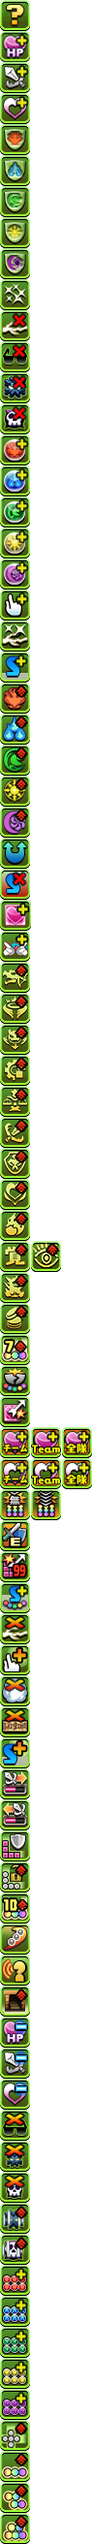
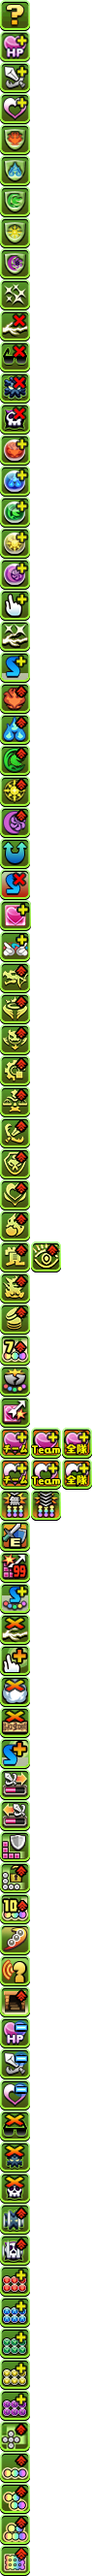
提前增加12珠觉醒

diff --git a/triple.html b/triple.html
@@ -539,6 +539,7 @@ var formation = new Formation(teamsCount,6);
 						<li class="awoken-count display-none"><span class="awoken-icon" data-awoken-icon="79"></span><span class="count"></span></li><!--3色-->
 						<li class="awoken-count display-none"><span class="awoken-icon" data-awoken-icon="80"></span><span class="count"></span></li><!--4色-->
 						<li class="awoken-count display-none"><span class="awoken-icon" data-awoken-icon="81"></span><span class="count"></span></li><!--5色-->
+						<li class="awoken-count display-none"><span class="awoken-icon" data-awoken-icon="82"></span><span class="count"></span></li><!--12珠-->
 					</ul>
 				</div>
 			</li>
@@ -1001,6 +1002,7 @@ var formation = new Formation(teamsCount,6);
 						<li class="awoken-count display-none"><span class="awoken-icon" data-awoken-icon="79"></span><span class="count"></span></li><!--3色-->
 						<li class="awoken-count display-none"><span class="awoken-icon" data-awoken-icon="80"></span><span class="count"></span></li><!--4色-->
 						<li class="awoken-count display-none"><span class="awoken-icon" data-awoken-icon="81"></span><span class="count"></span></li><!--5色-->
+						<li class="awoken-count display-none"><span class="awoken-icon" data-awoken-icon="82"></span><span class="count"></span></li><!--12珠-->
 					</ul>
 				</div>
 			</li>
@@ -1463,6 +1465,7 @@ var formation = new Formation(teamsCount,6);
 						<li class="awoken-count display-none"><span class="awoken-icon" data-awoken-icon="79"></span><span class="count"></span></li><!--3色-->
 						<li class="awoken-count display-none"><span class="awoken-icon" data-awoken-icon="80"></span><span class="count"></span></li><!--4色-->
 						<li class="awoken-count display-none"><span class="awoken-icon" data-awoken-icon="81"></span><span class="count"></span></li><!--5色-->
+						<li class="awoken-count display-none"><span class="awoken-icon" data-awoken-icon="82"></span><span class="count"></span></li><!--12珠-->
 					</ul>
 				</div>
 			</li>
@@ -1632,6 +1635,7 @@ var formation = new Formation(teamsCount,6);
 					<li class="awoken-count"><button class="awoken-icon" data-awoken-icon="79"></button><!--3色--></li>
 					<li class="awoken-count"><button class="awoken-icon" data-awoken-icon="80"></button><!--4色--></li>
 					<li class="awoken-count"><button class="awoken-icon" data-awoken-icon="81"></button><!--5色--></li>
+					<li class="awoken-count"><button class="awoken-icon" data-awoken-icon="82"></button><!--12珠--></li>
 				</ul>
 			</div>
 			<div class="sawoken-div"><!--超觉醒-->
@@ -1718,6 +1722,7 @@ var formation = new Formation(teamsCount,6);
 					<li class="awoken-count"><input type="checkbox" class="sawoken-check" name="types" value="79" id="search-awoken-79" /><label class="awoken-icon" data-awoken-icon="79" for="search-awoken-79"></label><!--3色--></li>
 					<li class="awoken-count"><input type="checkbox" class="sawoken-check" name="types" value="80" id="search-awoken-80" /><label class="awoken-icon" data-awoken-icon="80" for="search-awoken-80"></label><!--4色--></li>
 					<li class="awoken-count"><input type="checkbox" class="sawoken-check" name="types" value="81" id="search-awoken-81" /><label class="awoken-icon" data-awoken-icon="81" for="search-awoken-81"></label><!--5色--></li>
+					<li class="awoken-count"><input type="checkbox" class="sawoken-check" name="types" value="82" id="search-awoken-82" /><label class="awoken-icon" data-awoken-icon="82" for="search-awoken-82"></label><!--12珠--></li>
 				</ul>
 			</div>
 			<div class="special-div">

diff --git a/solo.html b/solo.html
@@ -524,6 +524,7 @@ var formation = new Formation(teamsCount,6);
 						<li class="awoken-count display-none"><span class="awoken-icon" data-awoken-icon="79"></span><span class="count"></span></li><!--3色-->
 						<li class="awoken-count display-none"><span class="awoken-icon" data-awoken-icon="80"></span><span class="count"></span></li><!--4色-->
 						<li class="awoken-count display-none"><span class="awoken-icon" data-awoken-icon="81"></span><span class="count"></span></li><!--5色-->
+						<li class="awoken-count display-none"><span class="awoken-icon" data-awoken-icon="82"></span><span class="count"></span></li><!--12珠-->
 					</ul>
 				</div>
 			</li>
@@ -693,6 +694,7 @@ var formation = new Formation(teamsCount,6);
 					<li class="awoken-count"><button class="awoken-icon" data-awoken-icon="79"></button><!--3色--></li>
 					<li class="awoken-count"><button class="awoken-icon" data-awoken-icon="80"></button><!--4色--></li>
 					<li class="awoken-count"><button class="awoken-icon" data-awoken-icon="81"></button><!--5色--></li>
+					<li class="awoken-count"><button class="awoken-icon" data-awoken-icon="82"></button><!--12珠--></li>
 				</ul>
 			</div>
 			<div class="sawoken-div"><!--超觉醒-->
@@ -779,6 +781,7 @@ var formation = new Formation(teamsCount,6);
 					<li class="awoken-count"><input type="checkbox" class="sawoken-check" name="types" value="79" id="search-awoken-79" /><label class="awoken-icon" data-awoken-icon="79" for="search-awoken-79"></label><!--3色--></li>
 					<li class="awoken-count"><input type="checkbox" class="sawoken-check" name="types" value="80" id="search-awoken-80" /><label class="awoken-icon" data-awoken-icon="80" for="search-awoken-80"></label><!--4色--></li>
 					<li class="awoken-count"><input type="checkbox" class="sawoken-check" name="types" value="81" id="search-awoken-81" /><label class="awoken-icon" data-awoken-icon="81" for="search-awoken-81"></label><!--5色--></li>
+					<li class="awoken-count"><input type="checkbox" class="sawoken-check" name="types" value="82" id="search-awoken-82" /><label class="awoken-icon" data-awoken-icon="82" for="search-awoken-82"></label><!--12珠--></li>
 				</ul>
 			</div>
 			<div class="special-div">

diff --git a/multi.html b/multi.html
@@ -836,6 +836,7 @@ var formation = new Formation(teamsCount,5);
 					<li class="awoken-count"><button class="awoken-icon" data-awoken-icon="79"></button><!--3色--></li>
 					<li class="awoken-count"><button class="awoken-icon" data-awoken-icon="80"></button><!--4色--></li>
 					<li class="awoken-count"><button class="awoken-icon" data-awoken-icon="81"></button><!--5色--></li>
+					<li class="awoken-count"><button class="awoken-icon" data-awoken-icon="82"></button><!--12珠--></li>
 				</ul>
 			</div>
 			<div class="sawoken-div"><!--超觉醒-->
@@ -922,6 +923,7 @@ var formation = new Formation(teamsCount,5);
 					<li class="awoken-count"><input type="checkbox" class="sawoken-check" name="types" value="79" id="search-awoken-79" /><label class="awoken-icon" data-awoken-icon="79" for="search-awoken-79"></label><!--3色--></li>
 					<li class="awoken-count"><input type="checkbox" class="sawoken-check" name="types" value="80" id="search-awoken-80" /><label class="awoken-icon" data-awoken-icon="80" for="search-awoken-80"></label><!--4色--></li>
 					<li class="awoken-count"><input type="checkbox" class="sawoken-check" name="types" value="81" id="search-awoken-81" /><label class="awoken-icon" data-awoken-icon="81" for="search-awoken-81"></label><!--5色--></li>
+					<li class="awoken-count"><input type="checkbox" class="sawoken-check" name="types" value="82" id="search-awoken-82" /><label class="awoken-icon" data-awoken-icon="82" for="search-awoken-82"></label><!--12珠--></li>
 				</ul>
 			</div>
 			<div class="special-div">

diff --git a/script-json_data.js b/script-json_data.js
@@ -401,7 +401,8 @@ const official_awoken_sorting = [
 		   4,  5,  6,  7,  8, 35, 36, 37, 38,
 		   1,  2,  3, 46, 47, 39, 40, 41, 42,
 		  65, 66, 67,  9, 71, 72, 30, 64, 63,
-		  73, 74, 75, 76, 77, 78, 79, 80, 81
+		  73, 74, 75, 76, 77, 78, 79, 80, 81,
+		  82
 ];
 
 //pdc的徽章对应数字

diff --git a/style-monsterimages.css b/style-monsterimages.css
@@ -625,6 +625,9 @@ icon.type
 .awoken-icon[data-awoken-icon='81']{/*5色*/
 	background-position-y:calc(-32px * 81);
 }
+.awoken-icon[data-awoken-icon='82']{/*12珠*/
+	background-position-y:calc(-32px * 82);
+}
 /*类型*/
 .type-icon,
 icon.type
